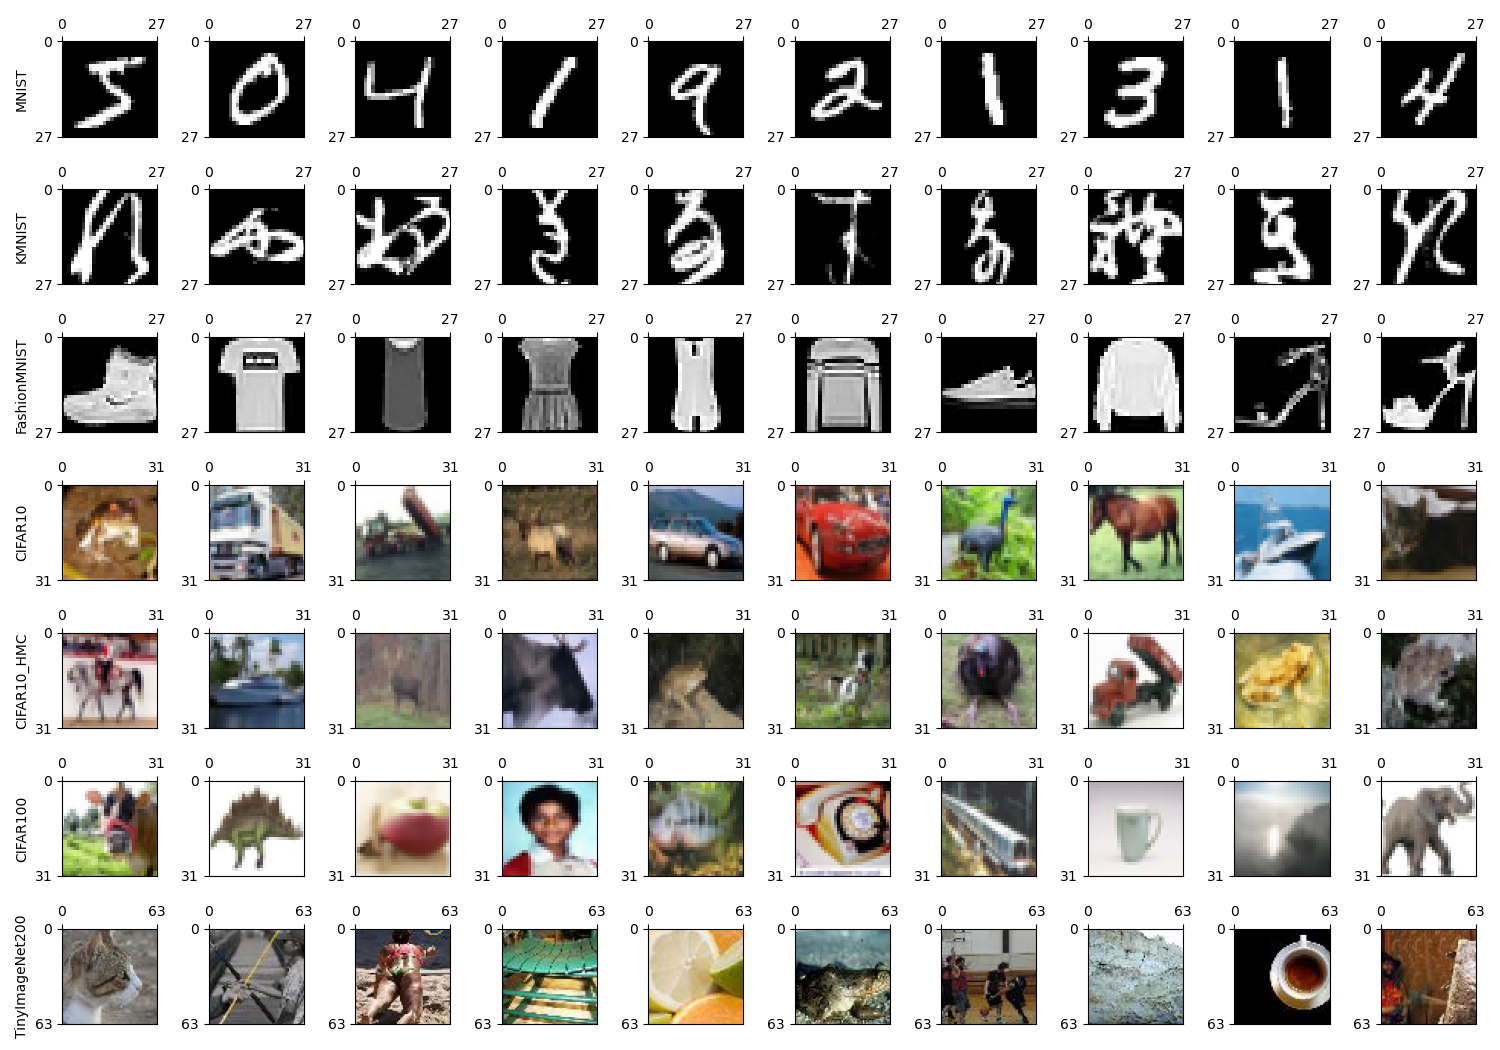
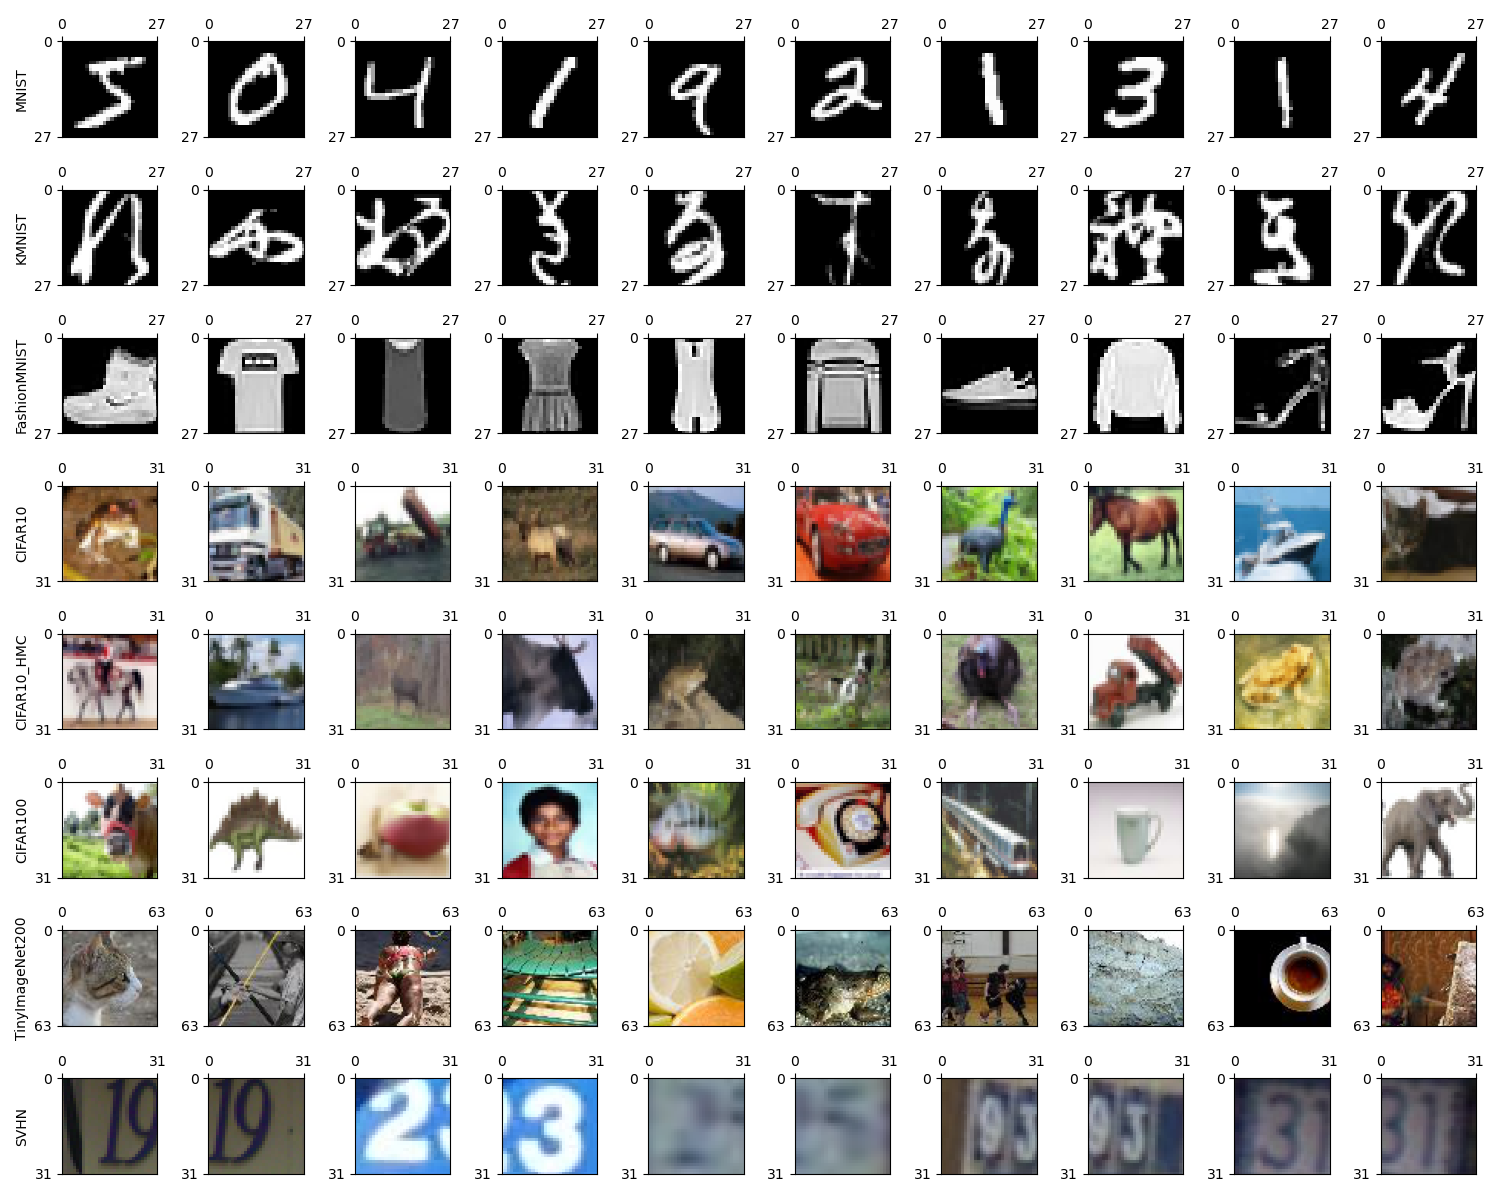
update datasets

diff --git a/datasets/preview.py b/datasets/preview.py
@@ -11,6 +11,7 @@ NAMES = np.array([
     "CIFAR10_HMC",
     "CIFAR100",
     "TinyImageNet200",
+    "SVHN",
 ])
 
 EXISTS = np.array([os.path.exists(e) for e in NAMES])
